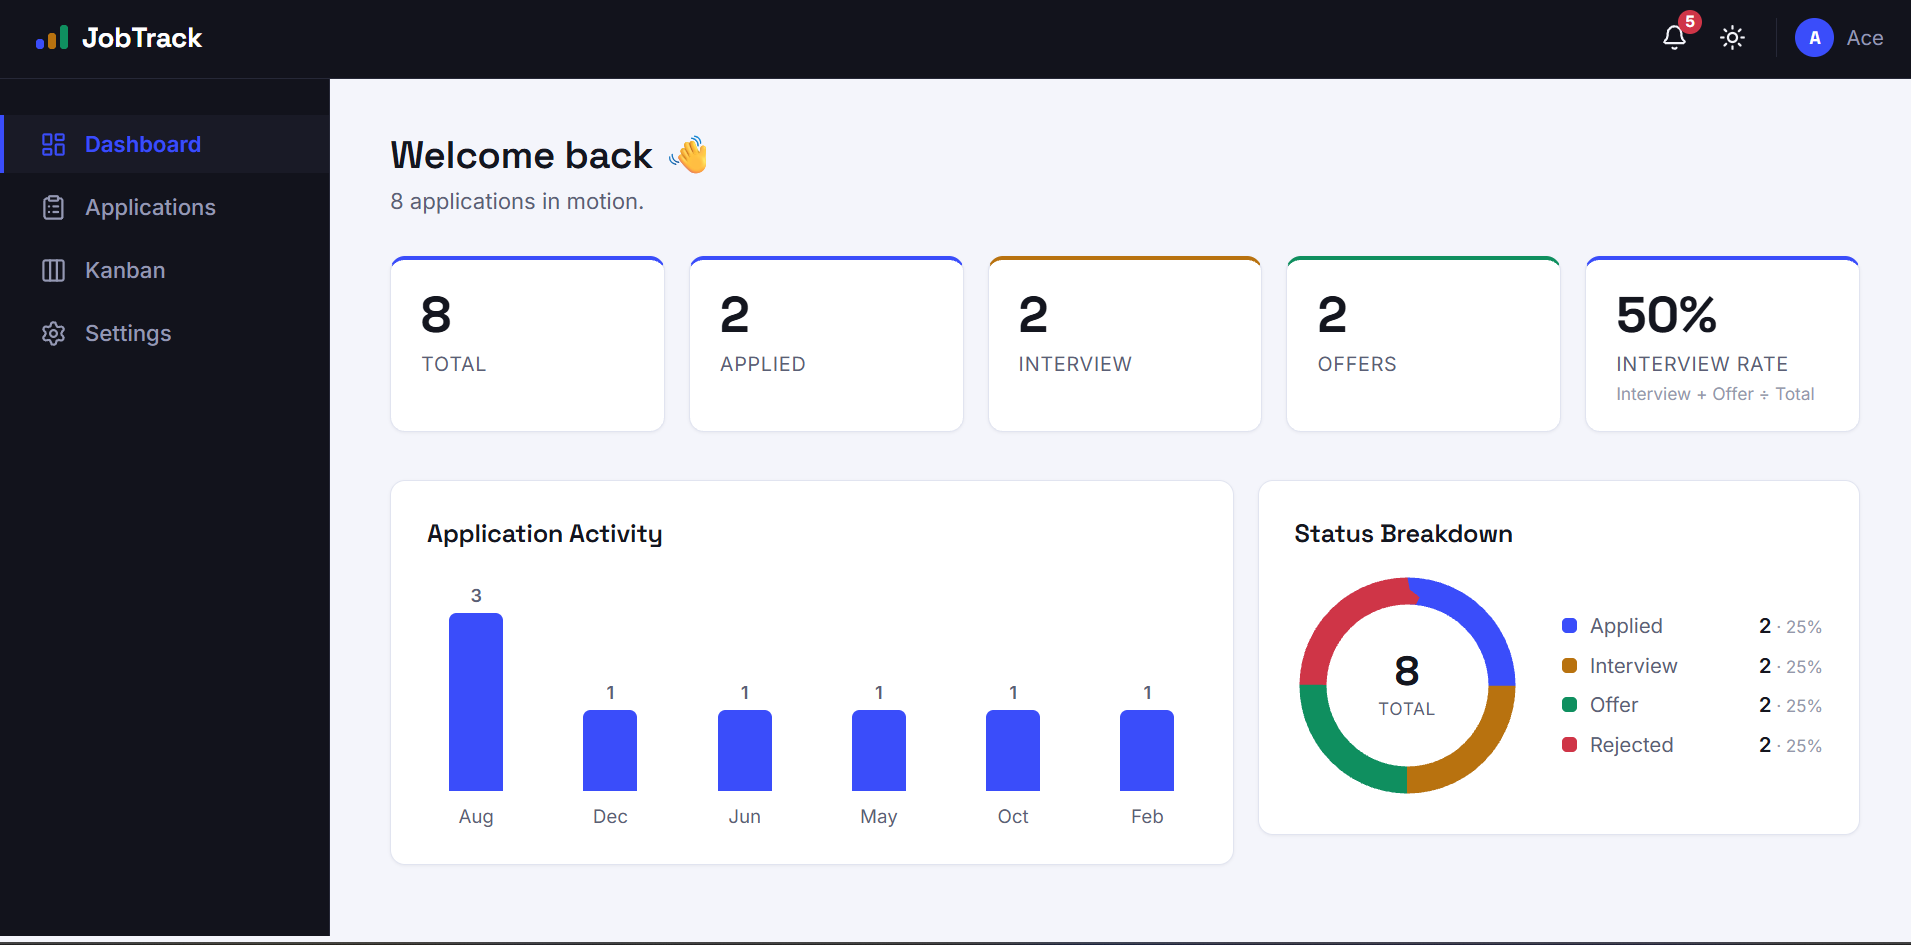
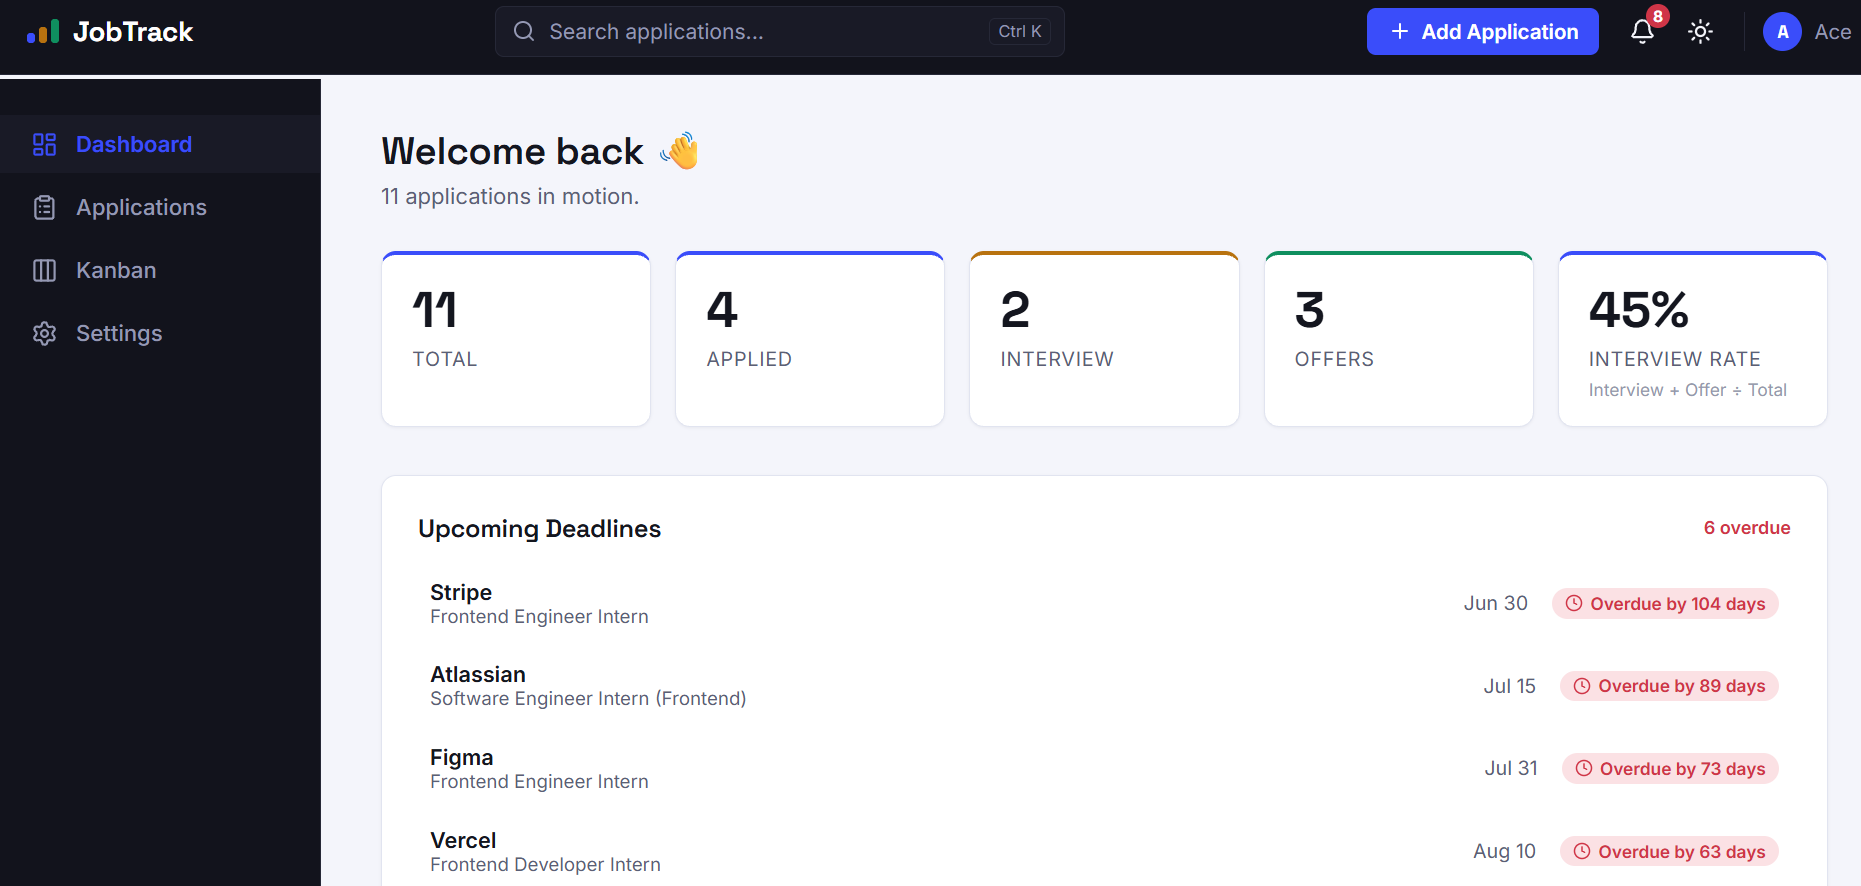
added the gif demo

diff --git a/README.md b/README.md
@@ -3,6 +3,7 @@
 A Kanban-style dashboard for tracking internship and job applications — built from scratch with React to practice component design, routing, state management, and Context, and to have a real, working portfolio project rather than another to-do list clone.
 
 **Live demo:** https://job-track-lake.vercel.app/
+![Job Track demo](src/images/JobTrack-ezgif.com-optimize.gif)
 
 > Built by [Aish Maskey](https://github.com/aishmaskey23-ace) as a self-directed learning project while studying frontend development.
 
@@ -37,13 +38,14 @@ Everything is stored in the browser via `localStorage` — no backend, no sign-u
 
 Dashboard View:
 ![Dashboard Image](src/images/dashboard.png)
+![alt text](src/images/dashboardd.png)
 
 Applications List:
-![Applications list image](src/images/applicationlist.png)
-![alt txt](src/images/image.png)
+![Applications list image](src/images/applications.png) 
+![alt text](src/images/image.png)
 
 Kanban board:
-![Kanban Board Image](src/images/kanbanboard.png)
+![Kanban Board Image]!(src/images/kanban.png)
 
 
 ```
